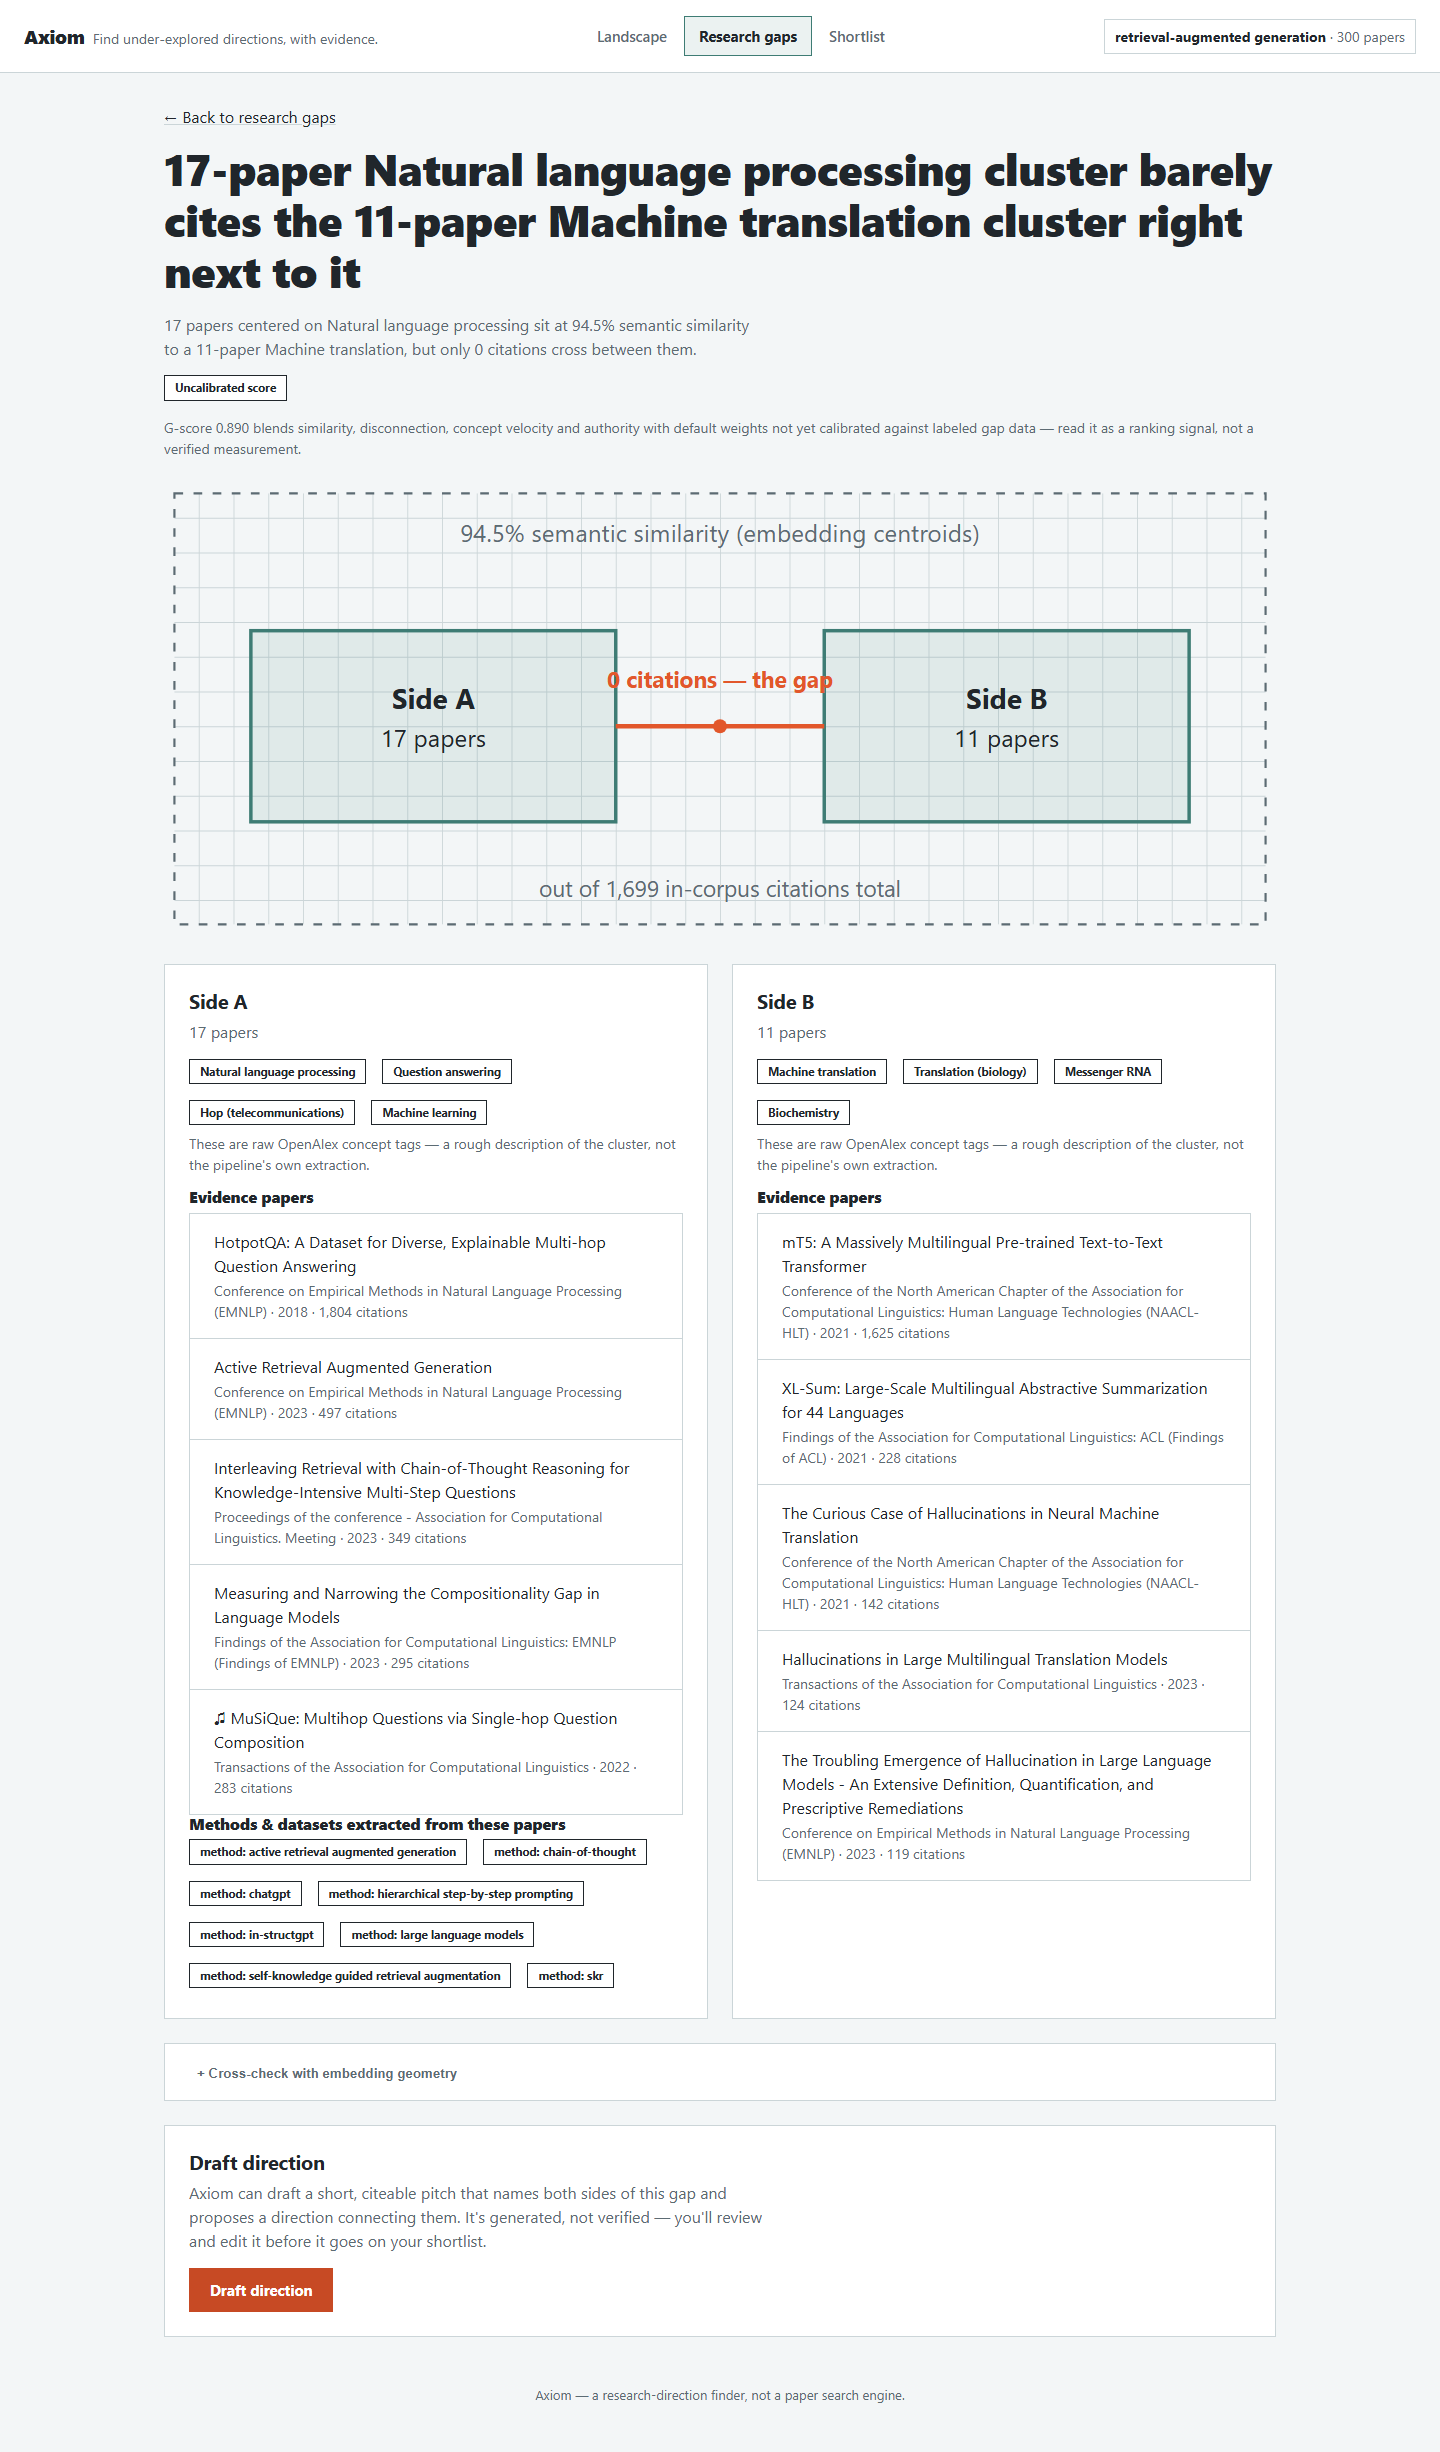
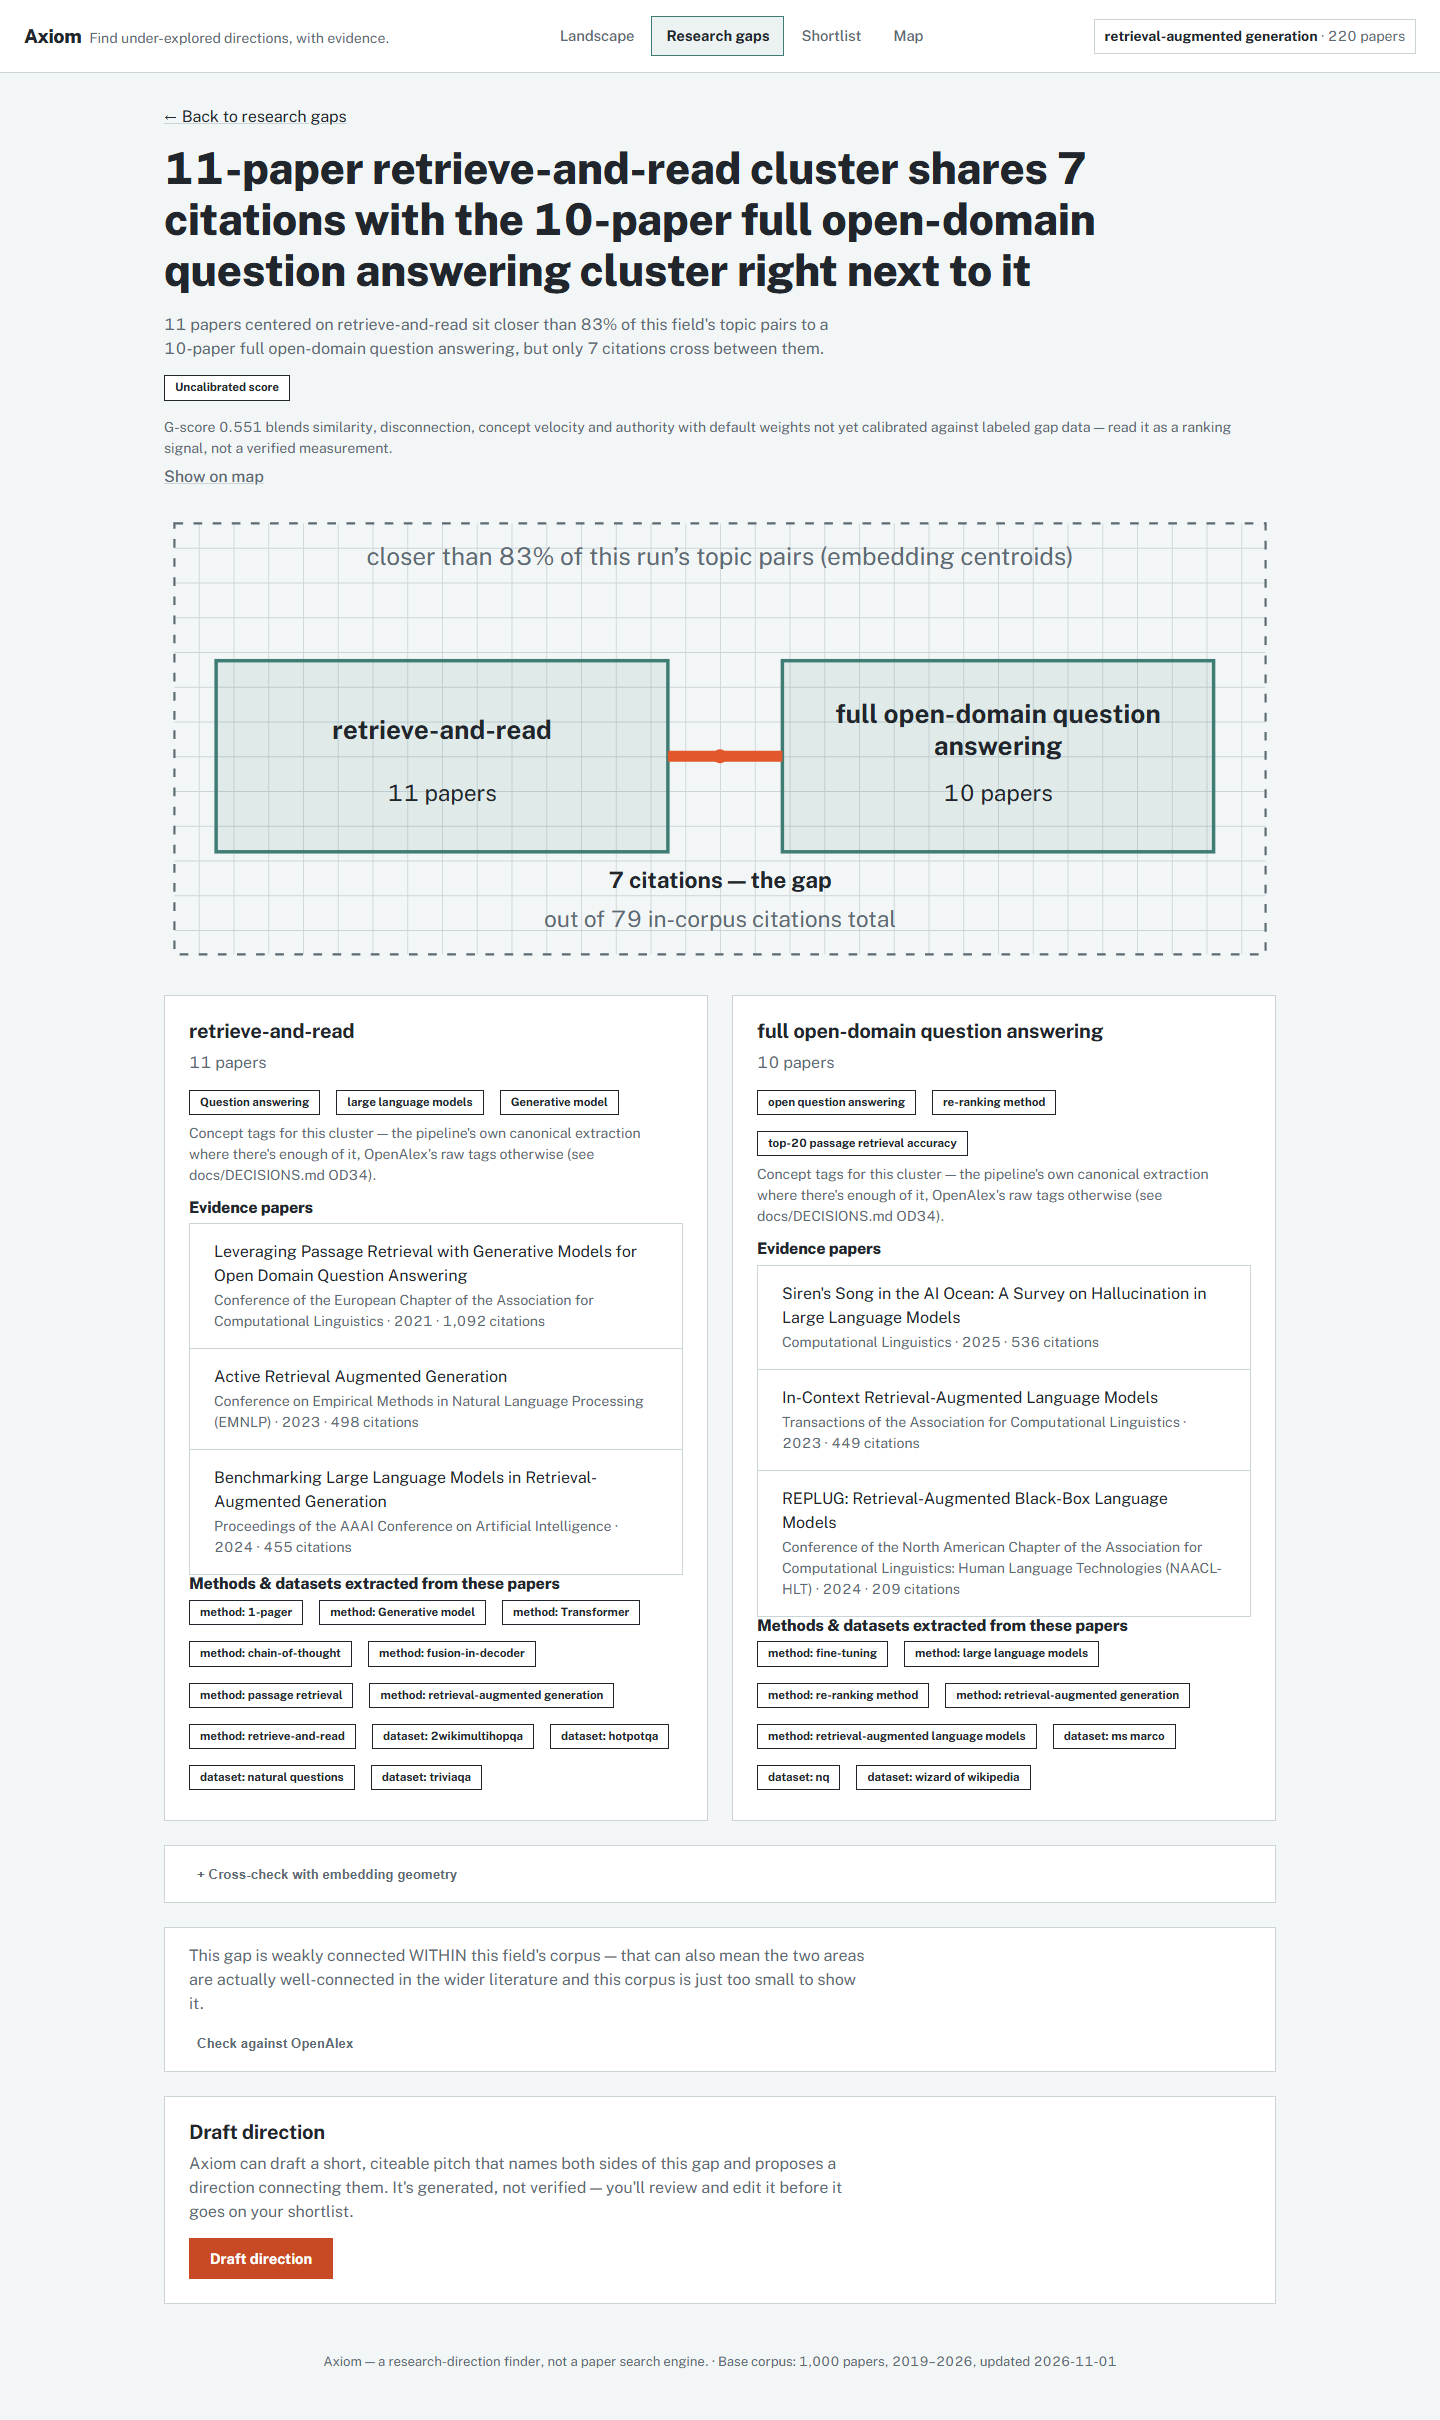
docs(product): refresh screenshots + DEMO.md from real post-fix data (B3)
docs/product/after/*.png re-shot against the refreshed e2e fixtures (real
gap, real agent-extracted labels, self-hosted Public Sans now actually
rendering) -- the previous set predated OD34's gap-labeling fix and still
showed raw OpenAlex tags.

DEMO.md rewritten with the real current numbers (220 papers, 79 in-corpus
citations, 188 communities, 6 gaps, the real top gap and its real evidence
papers) and the real current flow (instant field creation over the
prebuilt corpus, not a live per-field build) -- the old script described
a 300-paper field and a scenario stage 4 replaced. Added the new "Check
against OpenAlex" step (B1) to the script and its failure-mode fallback.

diff --git a/docs/product/DEMO.md b/docs/product/DEMO.md
@@ -3,12 +3,15 @@
 For interviews. Matches the confirmed demo scenario in `docs/product/PRODUCT.md`:
 start from an already-built field, go straight to a gap, draft a direction, shortlist
 it — no live build in the critical path. Uses the real "retrieval-augmented
-generation" field (300 real OpenAlex papers) that's already in the running app; every
-number below is real, pulled from that corpus, not staged.
+generation" field (an instant 220-paper slice of the prebuilt 1000-paper base
+corpus) that's already in the running app; every number below is real, pulled
+from that corpus on 2026-11-01, not staged.
 
 ## Setup (before the room, not during it)
 
-1. Backend running: `uvicorn api.main:app --reload` (repo root, venv active).
+1. Backend running: `uvicorn api.main:app --reload` (repo root, venv active) —
+   against the real prebuilt corpus (`python scripts/build_corpus.py` already run;
+   see the README for the one-time cost/time warning, not something to do live).
 2. Frontend running: `npm run dev` in `web/` → `http://localhost:5173`.
 3. Open the app to `/` (Start) so the first thing on screen is the product's name
    and the real field in "Recent fields."
@@ -18,32 +21,34 @@ number below is real, pulled from that corpus, not staged.
 **0:00 — Start.** "Axiom isn't a paper search engine — it surfaces two things:
 which concepts are accelerating in a field, and which related areas of work barely
 cite each other despite being closely related. That second one is the interesting
-part — those are candidate thesis directions." Click into the
-"retrieval-augmented generation" field (300 papers, already built).
+part — those are candidate thesis directions." Type "retrieval-augmented generation"
+(or click the field already in Recent fields) — this is a *slice* of a prebuilt
+1000-paper corpus, so it resolves instantly, no download or per-field LLM spend.
 
-**0:20 — Landscape.** Point at the stat row: 300 papers, 1,699 in-corpus citations,
-31 topic communities, 15 candidate gaps. "These aren't a second clustering —
-they're the same communities the gaps are built from." Scroll to Rising concepts:
-"Machine translation," "Human–computer interaction" rising from 0 prior mentions —
-"shown as a ratio, not a raw percent, because a concept with zero prior mentions
-still has somewhere to rise from." Key papers: SQuAD, BERT — ranked by PageRank
-within this corpus's own citation graph, not raw citation count.
+**0:20 — Landscape.** Point at the stat row: 220 papers, 79 in-corpus citations,
+188 topic communities, 6 candidate gaps. "These aren't a second clustering —
+they're the same communities the gaps are built from." Key papers: Dense Passage
+Retrieval, Leveraging Passage Retrieval with Generative Models — ranked by
+PageRank within this corpus's own citation graph, not raw citation count.
 
 **0:50 — Research gaps.** Click through to the ranked list. Pick the top one:
-"a 17-paper cluster on NLP/question-answering methods barely cites an 11-paper
-machine-translation cluster, despite being 94.5% similar in embedding space —
-zero citations cross between them." Point at the "Uncalibrated score" badge:
-"the G-score is a ranking signal, not a verified measurement — we say that
-out loud instead of hiding it in a tooltip."
+"an 11-paper cluster on retrieve-and-read methods is closer than 83% of this
+field's topic pairs to a 10-paper cluster on re-ranking-based open-domain QA —
+yet only 7 of this field's 79 total in-corpus citations cross between them."
+Point at the "Uncalibrated score" badge: "the G-score is a ranking signal, not a
+verified measurement — we say that out loud instead of hiding it in a tooltip."
 
 **1:20 — The bridge view.** Open the gap detail. Walk the two-cluster diagram:
-"side A, side B, this line is the gap." Scroll to the evidence: real papers on
-each side (HotpotQA, Active Retrieval Augmented Generation on one side; mT5,
-XL-Sum on the other), and — the part that makes this actionable — real
-methods and datasets the agent pipeline actually extracted from those papers'
-abstracts: "side A uses active retrieval and chain-of-thought prompting; here's
-exactly which sentence that came from." Click a paper to open the panel, show
-the evidence-span highlighting in the real abstract.
+box area is paper count, line thickness is cross-citations. Scroll to the
+evidence: real papers on each side (*Leveraging Passage Retrieval with
+Generative Models*, *Active Retrieval Augmented Generation* on one side;
+*In-Context Retrieval-Augmented Language Models*, *REPLUG* on the other), and —
+the part that makes this actionable — real methods and datasets the agent
+pipeline actually extracted from those papers' abstracts. Click a paper to open
+the panel, show the evidence-span highlighting in the real abstract. Click
+"Check against OpenAlex": a live external lookup counts how many OpenAlex works
+already combine both sides' key concepts — low count here, so this isn't just
+an artifact of a small corpus.
 
 **2:00 — Draft a direction.** Click "Draft direction." While it generates
 (a few seconds, one real LLM call): "this is grounded in both sides' real
@@ -56,10 +61,10 @@ clusters.
 supervisor meeting — the claim, the method sketch, the datasets, the papers to
 read, and an explicit unverified disclaimer, not a polished-looking black box."
 
-**2:55 — Close.** "Ten minutes ago this was a 6-tab Streamlit app with no
-front door and an agent pipeline whose output never reached the UI. Now it's
-one path: pick a field, see what's accelerating, find where the evidence is
-thin, draft a direction, walk into the meeting with it."
+**2:55 — Close.** "One path end to end: pick a field — instant, over a shared
+prebuilt corpus — see what's accelerating, find where the evidence is thin,
+cross-check that against the wider literature, draft a direction, walk into
+the meeting with it."
 
 ## If something breaks live
 
@@ -68,8 +73,12 @@ thin, draft a direction, walk into the meeting with it."
   state, not a crash," and restart `uvicorn`.
 - **LLM call fails or is slow:** the draft-direction step is the only live LLM
   call in the whole script; if it errors, the button shows the real error
-  message inline. Have a second gap ready as a fallback (any of the 15 ranked
+  message inline. Have a second gap ready as a fallback (any of the 6 ranked
   gaps works — pick one with a round number of citations for easy narration).
-- **Don't start a new field live** — a real build takes several minutes and
-  costs real money; it's demonstrated by description ("the Start screen is how
-  you'd begin on a new field"), not performed.
+- **OpenAlex check fails/times out:** it's on-demand and clearly separate from
+  the core flow — note it ("that's a live external call, can be flaky") and
+  move on to Draft direction.
+- **Don't start a new field on an unfamiliar topic live** — most topics in this
+  corpus's domain (retrieval/RAG/QA/LLM knowledge) resolve to a real field in
+  under a second, but it's still worth rehearsing the exact topic string once
+  beforehand rather than typing something untested in the room.
